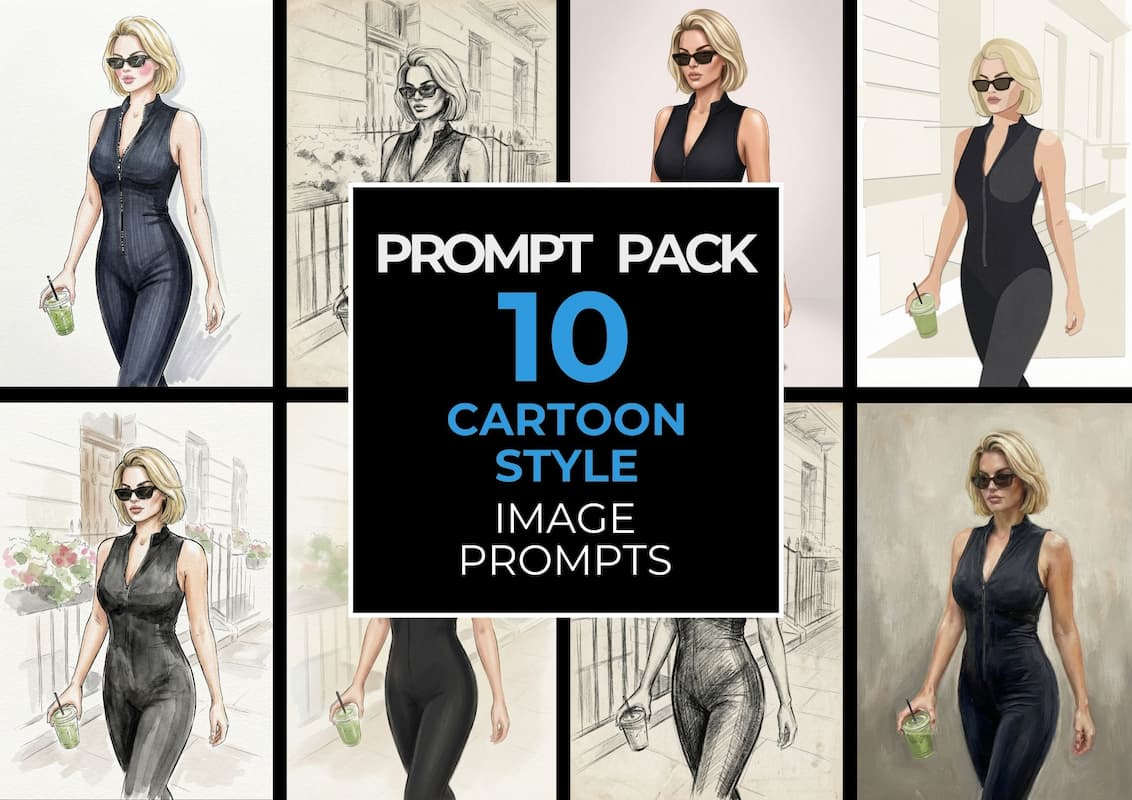
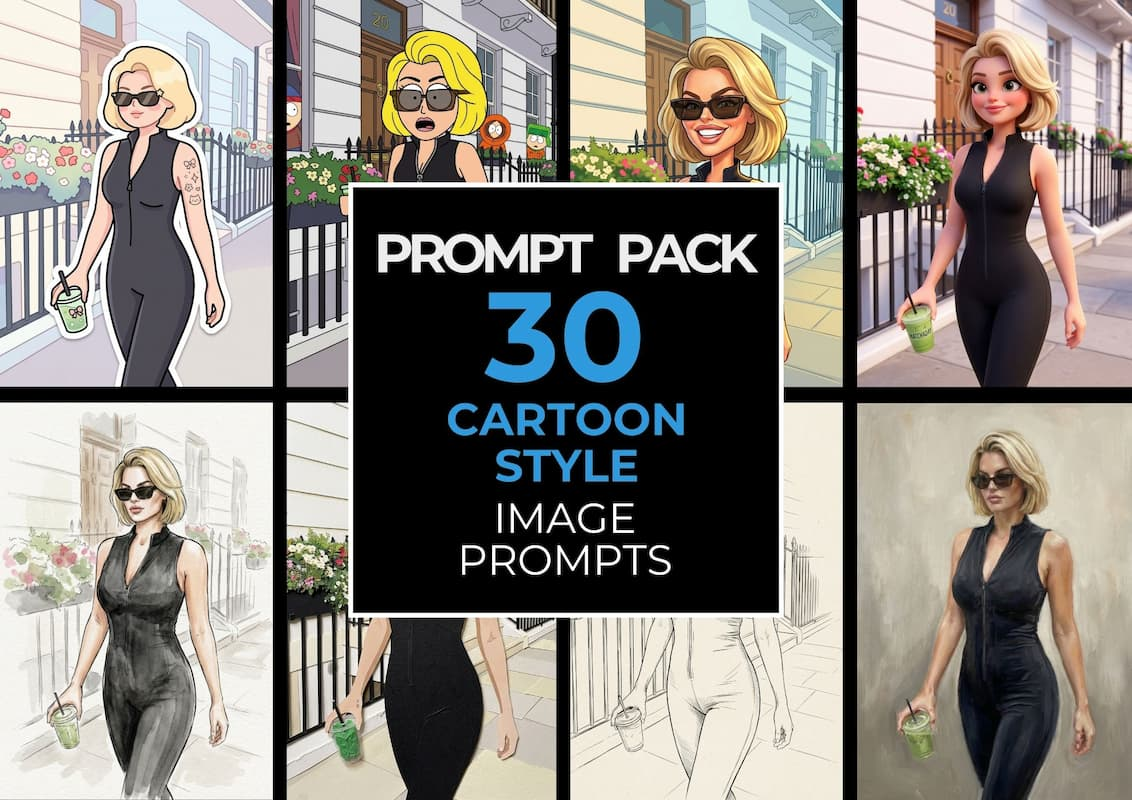
Update image

diff --git a/src/content/promptbooks/index.ts b/src/content/promptbooks/index.ts
@@ -439,12 +439,12 @@ export const PROMTBOOKS: Record<string, PromptBookRaw> = {
   "cartoon-style-image-prompts": {
     id: 44,
     gumroadSlug: "cartoon-style-image-prompts",
-    number: 10,
+    number: 30,
     tags: ["design"],
     mainCategory: "design",
     type: "pack",
     fileType: "link",
-    images: [1, 2, 3],
+    images: [1, 7, 8, 9, 10],
   },
   "studio-poses-photo-prompts": {
     id: 48,
